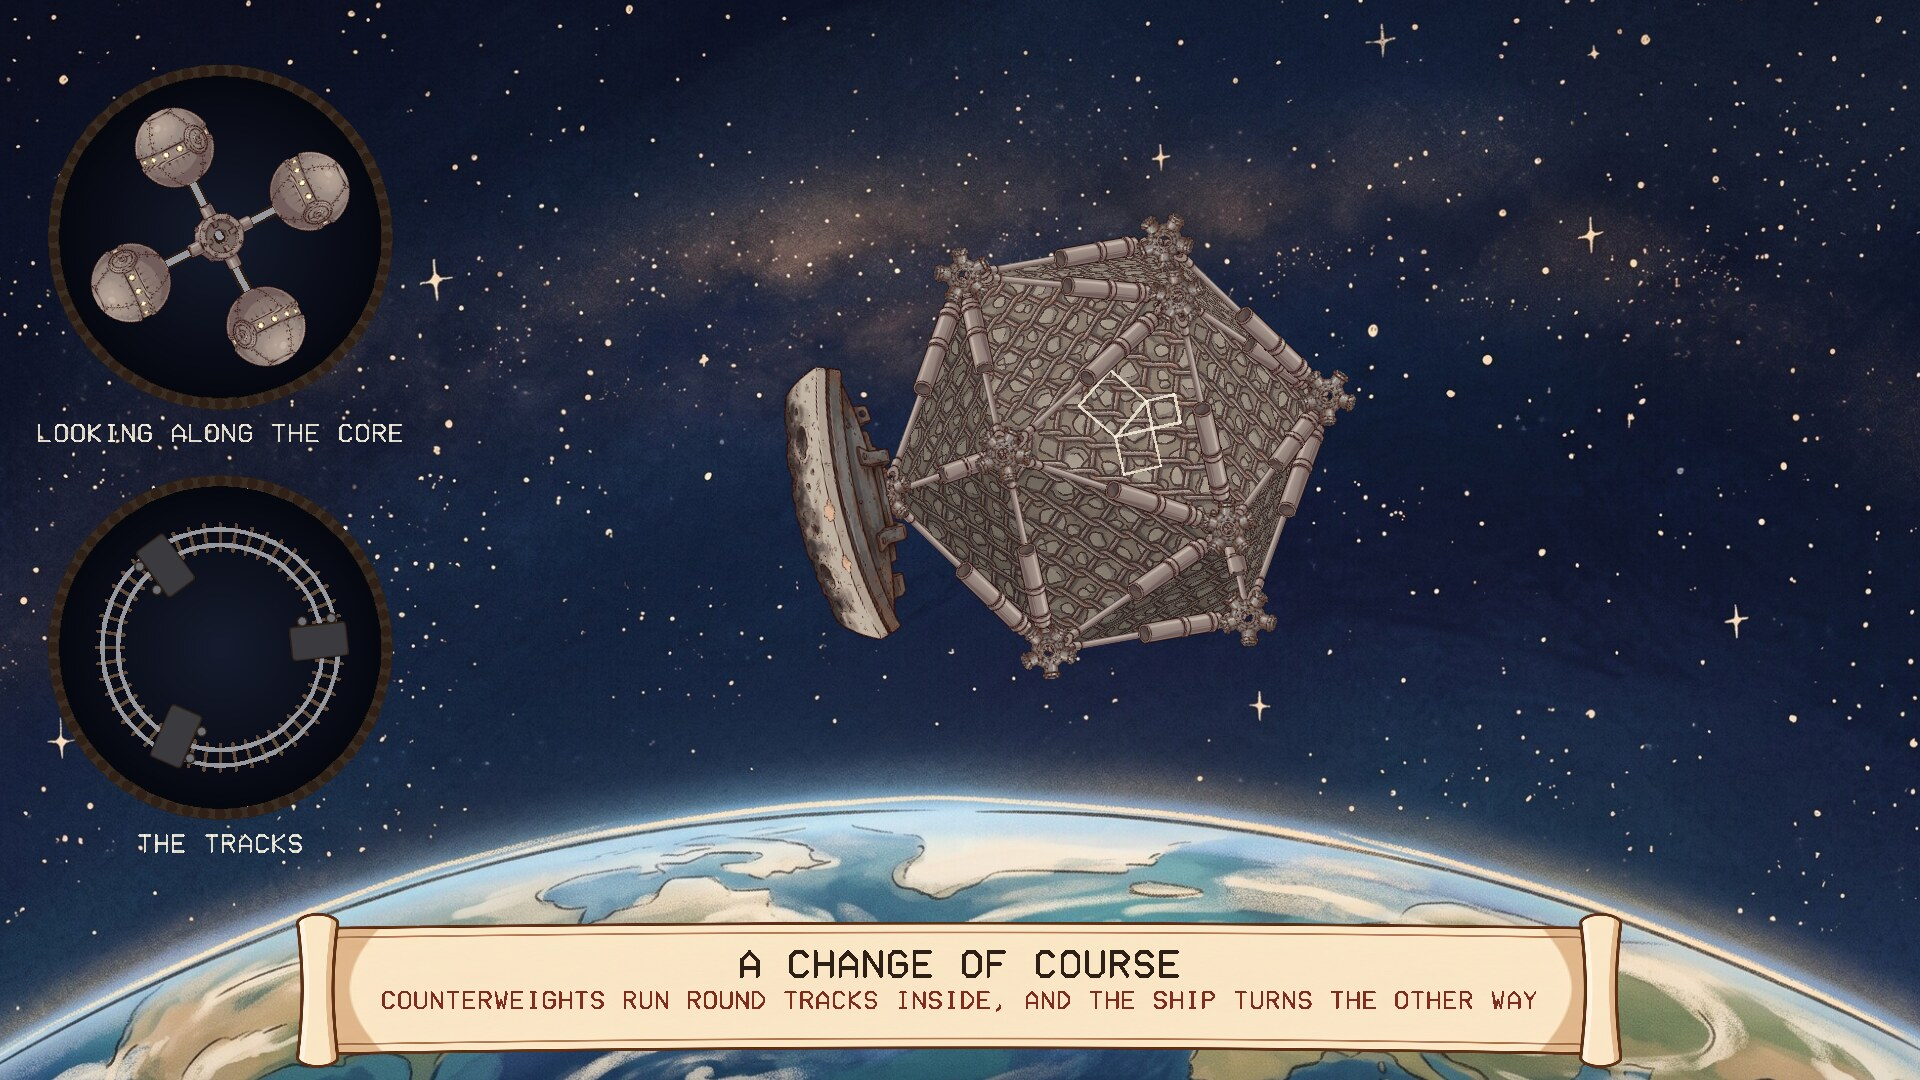
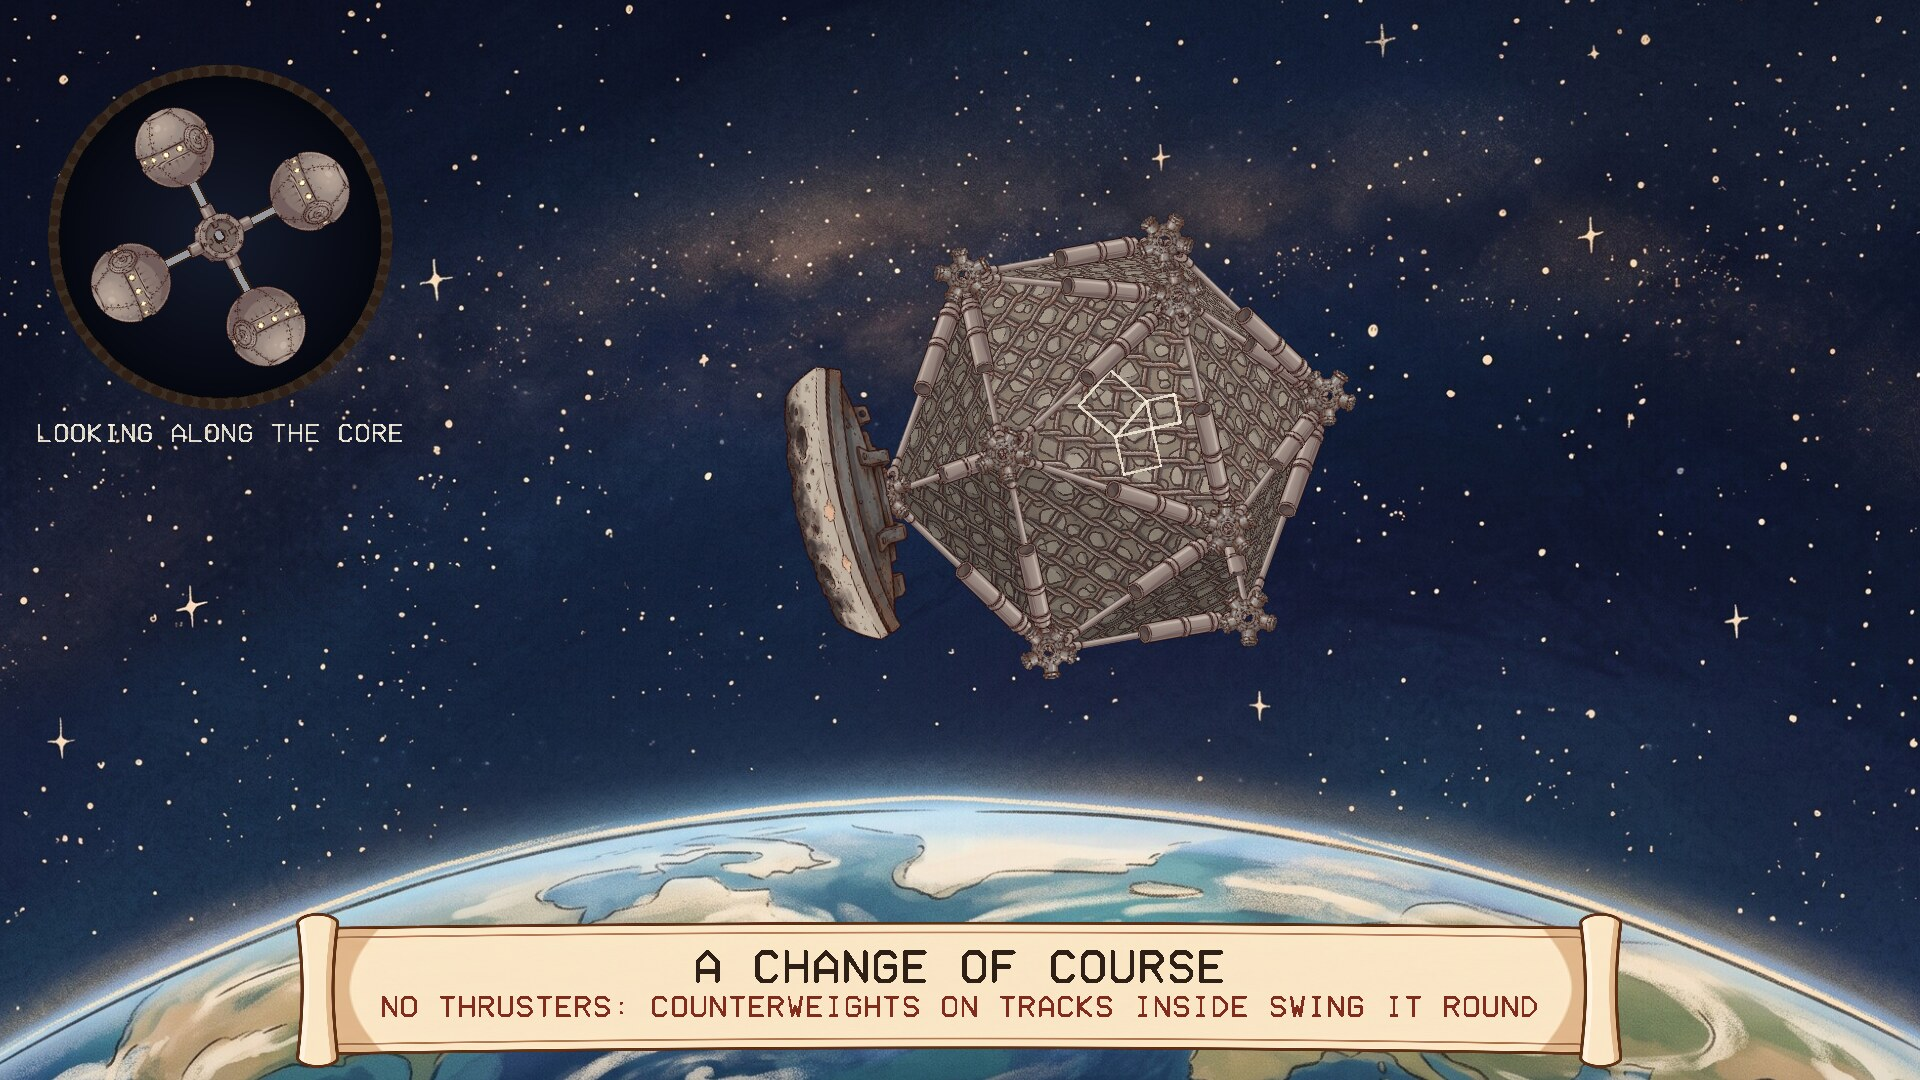
The counterweights stay out of sight

Changed region(s): [[0.0, 0.4278, 0.2188, 0.7944], [0.1875, 0.8556, 0.8125, 0.9472]]

diff --git a/src/urnud.c b/src/urnud.c
@@ -52,7 +52,6 @@ ART(space, "space.jpg")
 ART(banner, "banner.png")
 ART(joint, "joint.png")
 ART(gravel, "gravel.jpg")
-ART(weight, "weight.png")
 ART(plate, "plate.png")
 ART(orb, "orb.png")
 ART(hub, "hub.png")
@@ -63,13 +62,12 @@ ART(flash, "flash.jpg")
 ART(plasma, "plasma.jpg")
 ART(vapour, "vapour.jpg")
 
-enum { SP_SPACE, SP_BANNER, SP_JOINT, SP_GRAVEL, SP_WEIGHT, SP_PLATE, SP_ORB, SP_HUB, SP_CHARGE, SP_CYL, SP_ROD, SP_FLASH, SP_PLASMA, SP_VAPOUR, NSPRITE };
+enum { SP_SPACE, SP_BANNER, SP_JOINT, SP_GRAVEL, SP_PLATE, SP_ORB, SP_HUB, SP_CHARGE, SP_CYL, SP_ROD, SP_FLASH, SP_PLASMA, SP_VAPOUR, NSPRITE };
 static struct { const unsigned char *file, *end; int w, h; unsigned char *px; } sprite[NSPRITE] = {
     {art_space, art_space_end},
     {art_banner, art_banner_end},
     {art_joint, art_joint_end},
     {art_gravel, art_gravel_end},
-    {art_weight, art_weight_end},
     {art_plate, art_plate_end},
     {art_orb, art_orb_end},
     {art_hub, art_hub_end},
@@ -115,7 +113,7 @@ static int opt_w = 1920, opt_h = 1200;
 /* ---- colours ---- */
 typedef struct { Uint8 r, g, b; } Rgb;
 static const Rgb BG = {6, 8, 16}, INK = {46, 32, 22}, CHORD = {130, 44, 30}, PAPER = {253, 246, 226};
-static const Rgb STEEL = {150, 152, 158}, DEEP = {22, 28, 46}, WOODY = {96, 74, 56};
+static const Rgb STEEL = {150, 152, 158}, DEEP = {22, 28, 46};
 
 /* ---- geometry buffer ---- */
 static SDL_Vertex *vb;
@@ -476,34 +474,12 @@ static void draw_frame(void)
         if (vseen[i]) ship_pic_turned(SP_JOINT, pos[i][0], pos[i][1], wide(SP_JOINT, 0.125), 0.125, 1, i * 37.0);
 }
 
-/* The tracks, in a round window: counterweights run round one way and the ship
- * turns the other. They stop, and so does it. */
-static void draw_tracks(double cx, double cy, double R)
-{
-    disc(cx, cy, R * 1.06, col(STEEL, 1), col(STEEL, 1));
-    disc(cx, cy, R, col(DEEP, 1), col(BG, 1));
-    double tr = R * 0.68, a0 = -ship_deg * M_PI / 180 * 9;
-    for (int k = 0; k < 48; k++) { /* sleepers */
-        double a = k * M_PI / 24;
-        line(cx + cos(a) * tr * 0.88, cy + sin(a) * tr * 0.88, cx + cos(a) * tr * 1.12, cy + sin(a) * tr * 1.12, R * 0.022, col(WOODY, 1));
-    }
-    ring(cx, cy, tr * 0.93, R * 0.028, col(STEEL, 1));
-    ring(cx, cy, tr * 1.07, R * 0.028, col(STEEL, 1));
-    flush(ren);
-    for (int i = 0; i < 3; i++) {
-        double a = a0 + i * 2 * M_PI / 3;
-        turned(SP_WEIGHT, cx + cos(a) * tr * 0.9, cy + sin(a) * tr * 0.9, R * 0.3, a * 180 / M_PI + 180);
-    }
-    ring(cx, cy, R * 1.03, R * 0.07, col(INK, 0.9));
-    flush(ren);
-}
-
 static void caption(const char **l1, const char **l2)
 {
     static char count[64];
     *l1 = "THE DABAN URNUD"; *l2 = "THE GEOMETERS' SHIP, IN ORBIT ABOUT ARBRE";
     if (T > 8) { *l1 = "INSIDE, SIXTEEN ORBS TURN ABOUT THE CORE"; *l2 = "FOUR FOR EACH RACE: URNUD, TRO, LATERRE AND FTHOS"; }
-    if (T >= T_TURN) { *l1 = "A CHANGE OF COURSE"; *l2 = "COUNTERWEIGHTS RUN ROUND TRACKS INSIDE, AND THE SHIP TURNS THE OTHER WAY"; }
+    if (T >= T_TURN) { *l1 = "A CHANGE OF COURSE"; *l2 = "NO THRUSTERS: COUNTERWEIGHTS ON TRACKS INSIDE SWING IT ROUND"; }
     if (T >= T_BURN - 3) { *l1 = "PROPULSION CHARGES"; *l2 = "ATOMIC BOMBS, LET OUT THROUGH THE PLATE ONE BY ONE"; }
     if (T >= T_BURN + 12) { *l1 = "THIRTY STRUTS, EVERY ONE A SHOCK ABSORBER"; *l2 = "THE BLOW RUNS FORWARD THROUGH THE WHOLE FRAME"; }
     if (T >= T_BURN + 26) {
@@ -594,12 +570,6 @@ static void draw_scene(SDL_Renderer *r, int w, int h)
         double R = h * 0.15 * grow, cx = w * 0.115, cy = h * 0.22;
         draw_core(cx, cy, R);
         if (grow > 0.9) text("LOOKING ALONG THE CORE", cx, cy + R * 1.16, unit * 0.2, 0.9, col(PAPER, 0.85));
-    }
-    double tg = ease(ramp(T, T_TURN - 2, T_TURN)) * (1 - ease(ramp(T, T_BURN - 2, T_BURN)));
-    if (tg > 0.01) {
-        double R = h * 0.15 * tg, cx = w * 0.115, cy = h * 0.6;
-        draw_tracks(cx, cy, R);
-        if (tg > 0.9) text("THE TRACKS", cx, cy + R * 1.16, unit * 0.2, 0.9, col(PAPER, 0.85));
     }
     const char *l1, *l2;
     caption(&l1, &l2);

diff --git a/tools/make_sprites.py b/tools/make_sprites.py
@@ -87,8 +87,6 @@ def main():
     g = g[m:n - m, m:n - m, :3]
     subprocess.run(["magick", "-size", f"{g.shape[1]}x{g.shape[0]}", "-depth", "8", "RGB:-", "-resize", "512x512!",
                     "-brightness-contrast", "12x-6", "-quality", "90", f"{OUT}/gravel.jpg"], input=np.ascontiguousarray(g).tobytes(), check=True)
-    if len(got) > 2:
-        c = trim(got[2]); save(c, round(c.shape[1] * 200 / c.shape[0]), 200, f"{OUT}/weight.png")
     print("joint, gravel")
     # the blasts: split where the picture is dark all the way down
     img = load(f"{SRC}/blasts.jpeg")

diff --git a/README.md b/README.md
@@ -22,8 +22,8 @@ One change of course, about a minute and a half, then another at a different ang
 
 - **In orbit.** The ship coasts over Arbre. A round window looks along the Core at
   one ring of four orbs going round; they never stop.
-- **The turn.** No thrusters. A second window shows counterweights running round
-  tracks inside the ship; the ship turns the other way, and stops when they stop.
+- **The turn.** No thrusters. Counterweights run round tracks inside the ship,
+  out of sight, and the ship swings round the other way.
 - **The burn.** A charge drops out through the plate every second or two, flies a
   little way aft and goes off. The plasma hits the plate, and the plate's ablative
   layer glows and boils off. The stern corner is driven in, its five struts
@@ -37,7 +37,7 @@ springs. Nothing about how it flexes is a canned animation.
 | | |
 |---|---|
 | ![](docs/screenshots/02-the-orbs.jpg) | ![](docs/screenshots/03-the-turn.jpg) |
-| The orbs, seen along the Core | Counterweights turning the ship |
+| The orbs, seen along the Core | The ship turning |
 | ![](docs/screenshots/04-charge-away.jpg) | ![](docs/screenshots/06-the-frame-takes-it.jpg) |
 | A charge on its way out | The frame takes the blast |
 
@@ -53,8 +53,8 @@ counterweights on internal tracks, the Adrakhonic theorem on the hull, and the b
 being seen from Arbre as a string of sparks.
 
 Mine: how it all looks from the side, the plate sitting on one corner, the ablative
-layer on the plate (usual for this kind of drive), what the tracks and
-counterweights look like, how stiff the frame is, and the timing.
+layer on the plate (usual for this kind of drive), how stiff the frame is, and
+the timing.
 
 ## Install
 
@@ -62,7 +62,7 @@ Packages are on the [releases page](../../releases).
 
 ### Windows
 
-Run `DabanUrnud-Setup-1.0.0.exe`. It asks for administrator rights, because Windows
+Run `DabanUrnud-Setup-1.0.1.exe`. It asks for administrator rights, because Windows
 only lists screensavers that are in its own system folder. After that "The Daban
 Urnud" is in Screen Saver Settings with the others, already selected. Uninstall from
 Apps.
@@ -71,11 +71,11 @@ Apps.
 
 **Fedora, Nobara** (built on Fedora 44):
 
-    sudo dnf install ./daban-urnud-1.0.0-1.fc44.x86_64.rpm
+    sudo dnf install ./daban-urnud-1.0.1-1.fc44.x86_64.rpm
 
 **Debian, Ubuntu, Mint** (Ubuntu 24.04 / Debian 13 or later):
 
-    sudo apt install ./daban-urnud_1.0.0_amd64.deb
+    sudo apt install ./daban-urnud_1.0.1_amd64.deb
 
 From your next login it starts by itself after five minutes idle, and any key or
 mouse movement ends it. To start the watcher without logging out, or to change the
